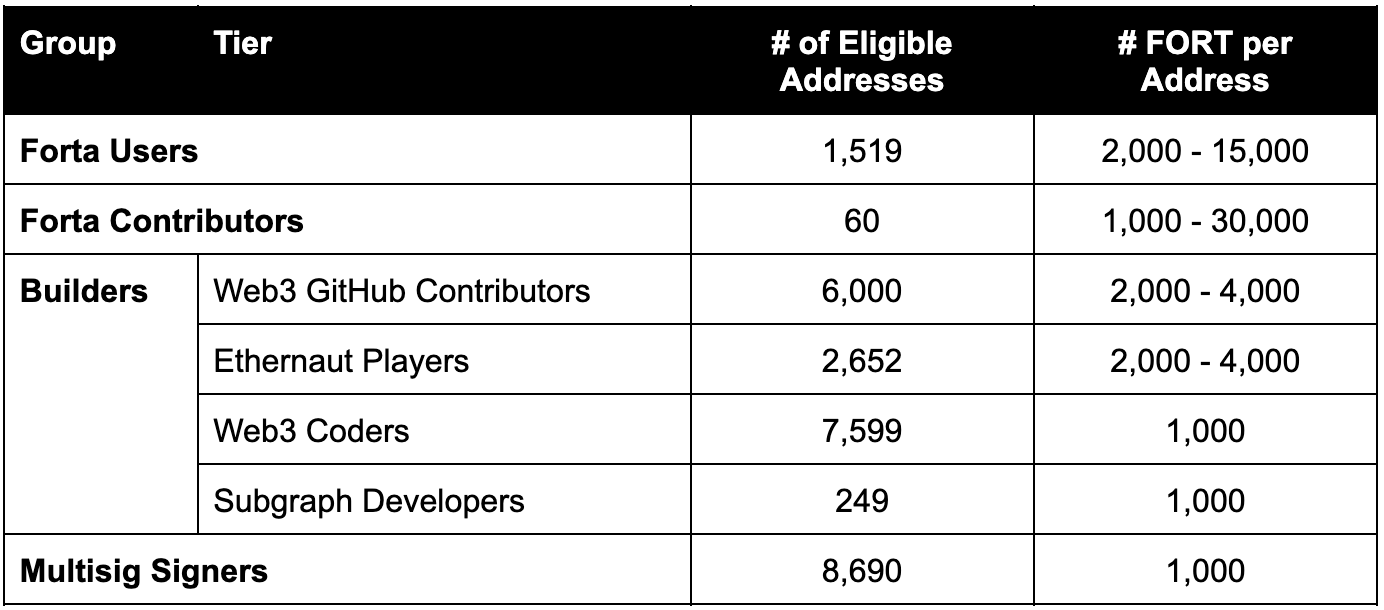
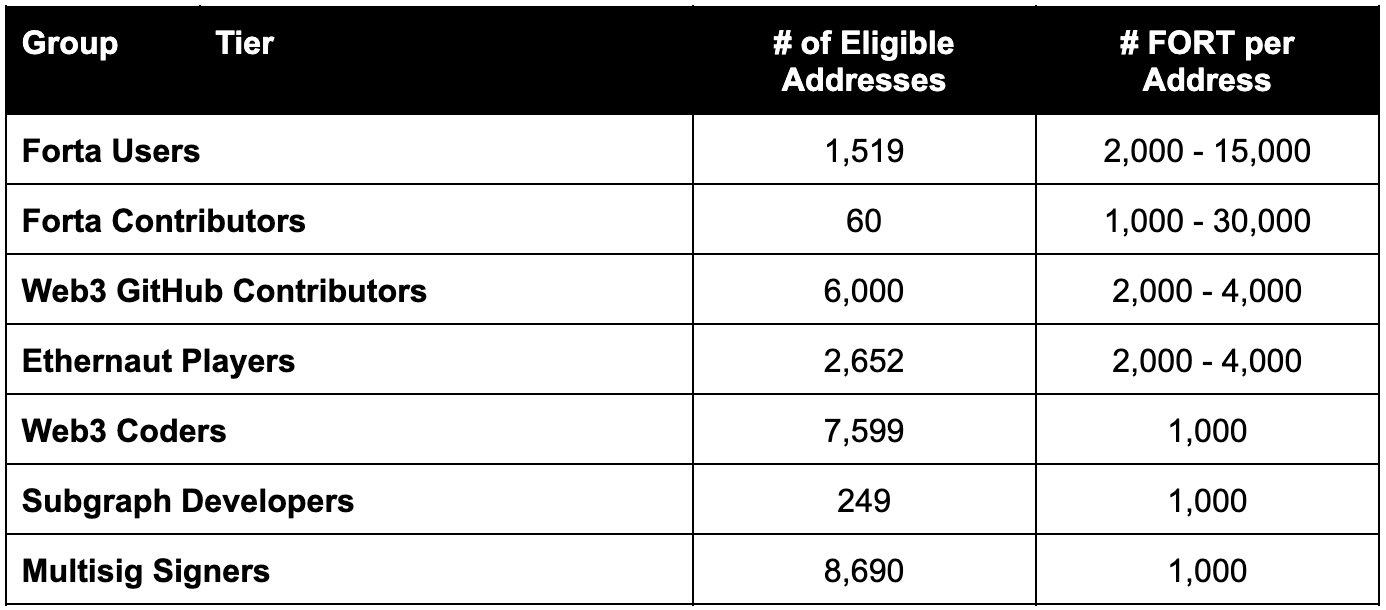
more airdrop edits

diff --git a/docs/airdrop.md b/docs/airdrop.md
@@ -40,31 +40,27 @@ Node runners are crucial to the Network’s security and growth by operating the
 
 Forta Contributors are ambassadors and thought leaders who are strong proponents of Forta’s mission and have contributed to the development and advancement of the network in a meaningful way.
 
-## Web3 Builders
-
-These are individuals who have created or contributed to key aspects of Web3’s infrastructure and security. This includes, but is not limited to, Ethereum mainnet developers, library contributors, Ethernaut players, and Subgraph developers.
-
-### Web3 Coders
-
-Inspired by [Project Galaxy’s initiative](https://blog.galaxy.eco/project-galaxy-announces-shadowy-super-coder-nft-pack-with-300-million-worth-of-perks-c5cb9ea2d18a) to support innovative developers, top developers in the Ethereum ecosystem are eligible for the FORT Airdrop. These are defined as coders who deployed smart contracts with the most active interactions.
-
-![Mainnet Developers](airdrop-table5.png)
-
-### Web3 Github Contributors
+## Web3 Github Contributors
 
 This group includes developers who actively contributed to over 900 [Web3 Github repositories](https://docs.google.com/spreadsheets/d/1VgLQIiceycJf0i6gofPTWi05UCfJJ4PURBEvkSCLG-E/edit?usp=sharing). This list comprises Web3 libraries, public goods, and top projects that are vital to the Forta ecosystem. Thousands of people worked to build and maintain these projects over the years, some even working completely for free in an effort to create a better and safer decentralized economy.
 
-![Library Contributors](airdrop-table6.png)
+![Web3 Github Contributors](airdrop-table6.png)
 *Each subcategory is discrete and cumulative: an address can be eligible for multiple and allocated a sum of tokens accordingly.*
 
-### Ethernaut Players
+## Ethernaut Players
 
 [Ethernaut](https://ethernaut.openzeppelin.com) is an open source foundational learning tool teaching thousands of developers the basics of smart contract security. Fans of Ethernaut have gone on to build and audit protocols, securing billions in TVL by incorporating the critical security concepts introduced in Ethernaut.
 
 ![Ethernaut Players](airdrop-table7.png)
 *Each subcategory is discrete and cumulative: an address can be eligible for multiple and allocated a sum of tokens accordingly.*
 
-### Subgraph Developers
+## Web3 Coders
+
+Inspired by [Project Galaxy’s initiative](https://blog.galaxy.eco/project-galaxy-announces-shadowy-super-coder-nft-pack-with-300-million-worth-of-perks-c5cb9ea2d18a) to support innovative developers, top developers in the Ethereum ecosystem are eligible for the FORT Airdrop. These are defined as coders who deployed smart contracts with the most active interactions.
+
+![Mainnet Developers](airdrop-table5.png)
+
+## Subgraph Developers
 
 The Graph Protocol subgraph developers are valuable contributors to Web3, facilitating access to blockchain data for decentralized applications on Ethereum.
 
